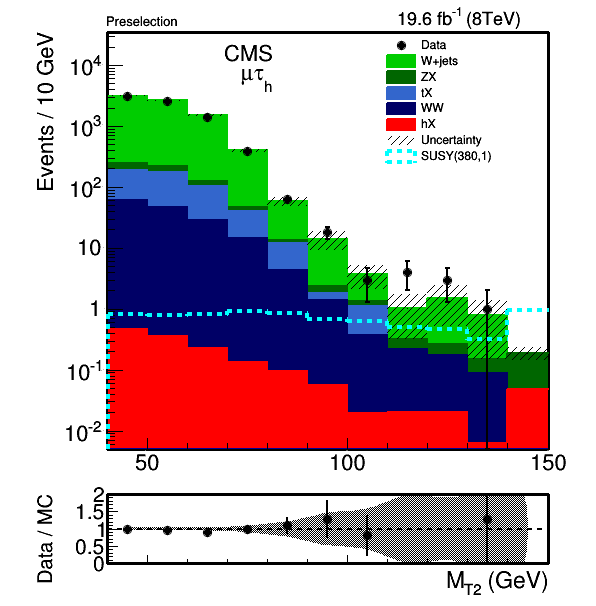
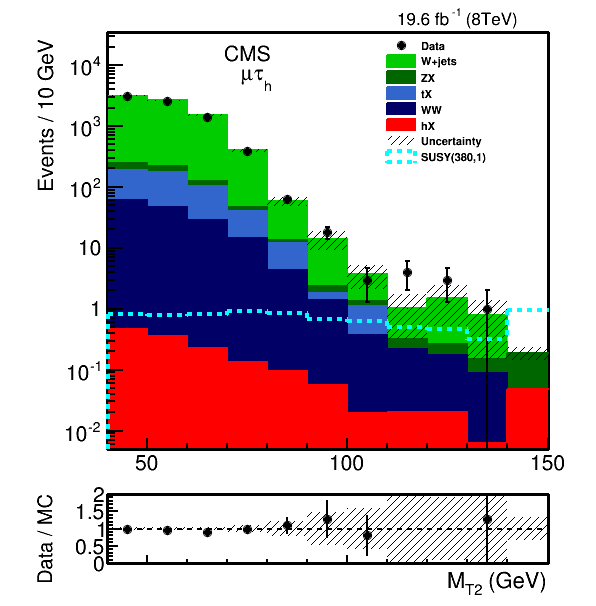
Fig 2 fixed.

diff --git a/papers/SUS-14-022/trunk/SelectionMuTau/MT2_mutau.C b/papers/SUS-14-022/trunk/SelectionMuTau/MT2_mutau.C
@@ -462,6 +462,10 @@
    h2_copy->GetZaxis()->SetTitleSize(0.035);
    h2_copy->GetZaxis()->SetTitleFont(42);
    h2_copy->Draw("e1 same");
+  exec = new TExec("setex1","gStyle->SetErrorX(0.5)");
+   exec->Draw();
+
+
    Double_t xAxis9[12] = {40, 50, 60, 70, 80, 90, 100, 110, 120, 130, 140, 150}; 
    
    TH1D *h_susy = new TH1D("h_susy","",11, xAxis9);
@@ -514,7 +518,7 @@ tex->SetNDC();
    tex->SetTextFont(42);
    tex->SetTextSize(0.03);
    tex->SetLineWidth(2);
-   tex->Draw();
+   //   tex->Draw();
       tex = new TLatex(0.6661074,0.9451827,"19.6 fb^{-1} (8TeV)");
 tex->SetNDC();
    tex->SetTextFont(42);
@@ -654,7 +658,7 @@ tex->SetNDC();
    //hOne->SetEntries(31.4133);
    hOne->SetStats(0);
    hOne->SetFillColor(1);
-   hOne->SetFillStyle(3001);
+   hOne->SetFillStyle(3004);
    hOne->SetLineWidth(2);
    hOne->SetLineColor( kBlack );
    hOne->SetMarkerColor( kBlack );
@@ -677,13 +681,15 @@ tex->SetNDC();
    hOne->GetZaxis()->SetLabelSize(0.035);
    hOne->GetZaxis()->SetTitleSize(0.035);
    hOne->GetZaxis()->SetTitleFont(42);
-   hOne->Draw("E6");
+   hOne->Draw("E2");
+   exec = new TExec("setex1","gStyle->SetErrorX(0.0)");
+   exec->Draw();
 
    
    TH1D *hRatio = h2_copy->Clone("hDataOverMC");
    hRatio->Divide( hMC );
    hRatio->SetMinimum(0);
-   hRatio->SetMaximum(2);
+   hRatio->SetMaximum(3);
    hRatio->SetDirectory(0);
    hRatio->SetStats(0);
    hRatio->SetLineWidth(2);

diff --git a/papers/SUS-14-022/trunk/SelectionEleTau/MT2_eletau.C b/papers/SUS-14-022/trunk/SelectionEleTau/MT2_eletau.C
@@ -655,7 +655,7 @@ tex->SetNDC();
    hOne->SetEntries(31.4133);
    hOne->SetStats(0);
    hOne->SetFillColor(1);
-   hOne->SetFillStyle(3003);
+   hOne->SetFillStyle(3004);
    hOne->SetLineWidth(2);
    hOne->SetLineColor( kBlack );
    hOne->SetMarkerColor( kBlack );
